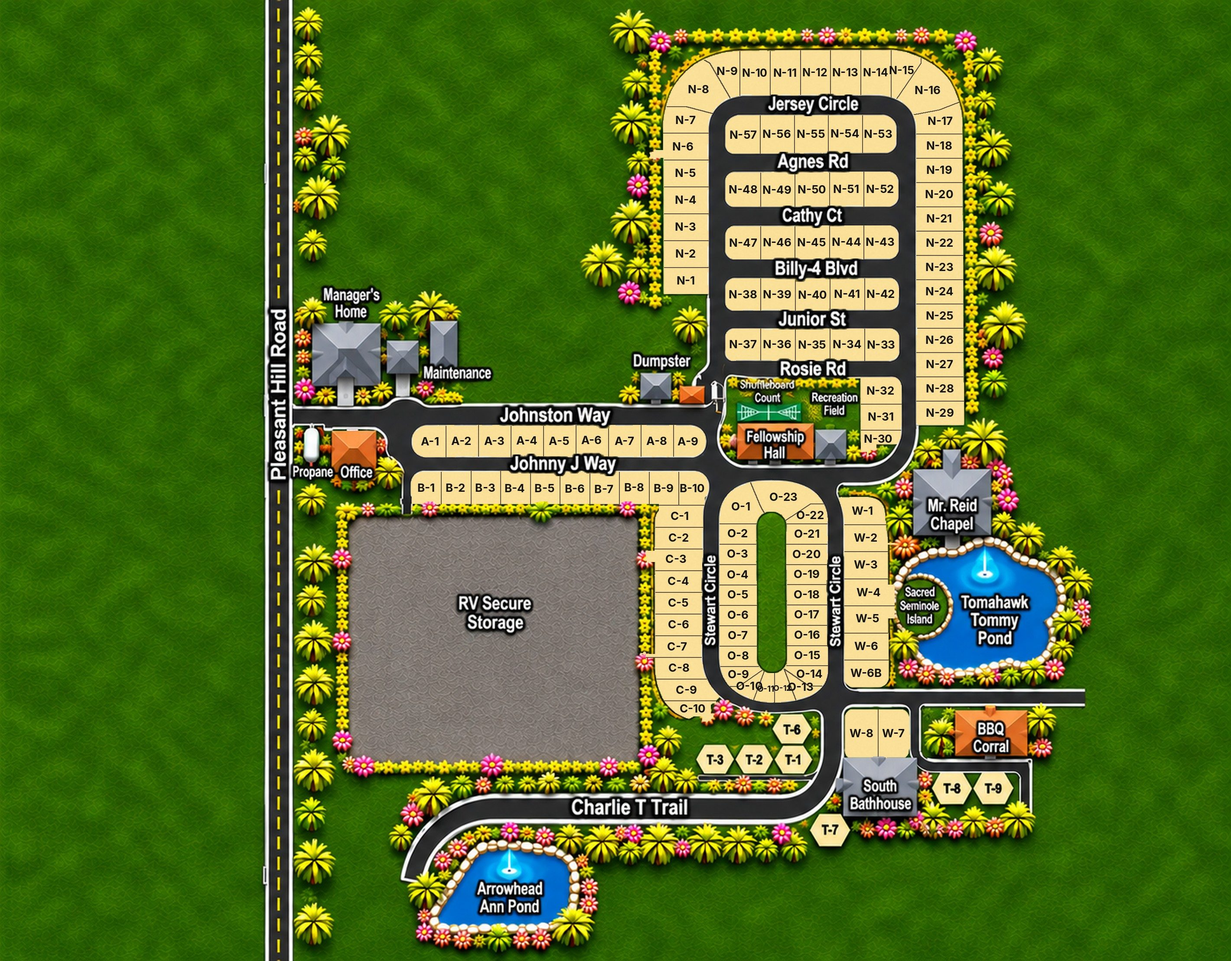
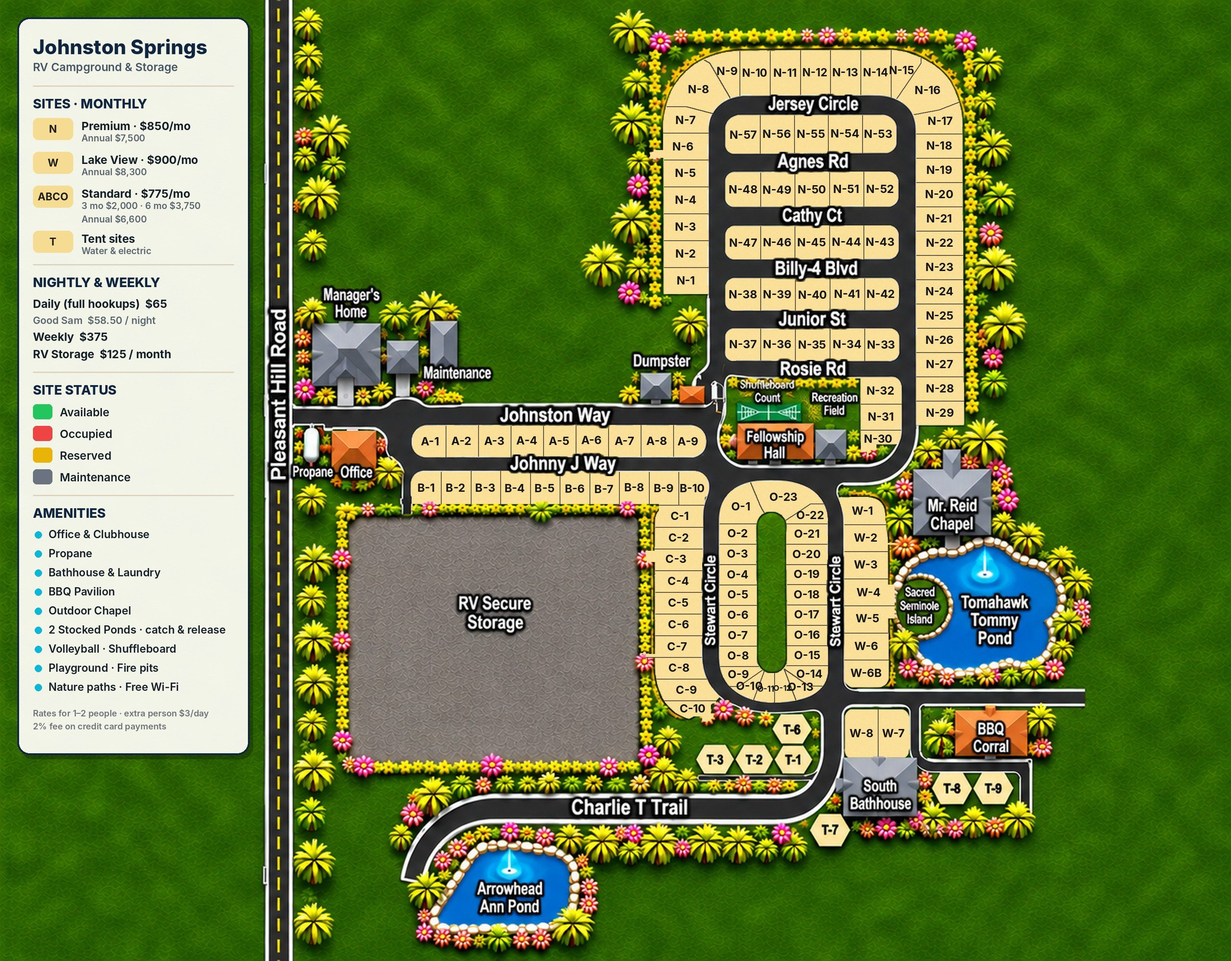
Johnston live map: legend + official rates (N $850, W $900, A/B/C/O $775, daily $65)
Claude-Session: https://claude.ai/code/session_01A6eEzDvAEVtPyCDXYkKvE7

Changed region(s): [[0.0, 0.0, 0.2169, 0.8096]]

diff --git a/public/explore/live/johnston/index.html b/public/explore/live/johnston/index.html
@@ -162,8 +162,9 @@ function load(){let d=null,lab=null;
 const kind=i=>"rv";
 // Nov 22 (per Mely — Johnston Springs): N = Super sites (33 ft+), A/B/C/O/W = Standard (under 32 ft), T = tent / water-electric (from the park's own map). Rates are examples.
 const sec=i=>String(NUM[i]||"").charAt(0);
-const typeOf=i=>{const es=L=="es",c=sec(i);return c=="N"?(es?"Super site (33 pies o más)":"Super site (33 ft or longer)"):c=="T"?(es?"Tienda · agua y luz":"Tent · water & electric"):(es?"Sitio estándar (menos de 32 pies)":"Standard site (under 32 ft)")};
-const rateOf=i=>{const c=sec(i);return c=="N"?"$700":c=="T"?"—":"$600"};
+// Nov 22 (per Mely): official Johnston Springs rates from johnstonsprings.com
+const typeOf=i=>{const es=L=="es",c=sec(i);return c=="N"?(es?"Premium (33 pies o más)":"Premium site (33 ft or longer)"):c=="W"?(es?"Vista al lago":"Lake View site"):c=="T"?(es?"Tienda · agua y luz":"Tent · water & electric"):(es?"Sitio estándar":"Standard site")};
+const rateOf=i=>{const c=sec(i);return c=="N"?"$850":c=="W"?"$900":c=="T"?(L=="es"?"Llame":"Call"):"$775"};
 // Nov 20 (per Mely): lot details — amps, size, hookups — so every lot looks complete (examples until the park sends its real data)
 // Nov 20 (per Mely): "Pay" works in the demo — a MelyOS secure-checkout preview (test card only, nothing is charged)
 function payDemo(i,n,tot){const es=L=="es",ov=document.createElement("div");ov.id="payov";
@@ -191,7 +192,7 @@ function maintUntil(i){return new Date(+today+((+NUM[i]||i)%5+2)*DAY)}
 const LONG=15;
 // A Stripe TEST-mode Payment Link (no real charge; card 4242 4242 4242 4242) — opens from "Pay" when set
 const DEMO_PAY_URL="";
-function nightly(i){const c=sec(i);return c=="N"?55:c=="T"?30:45}
+function nightly(i){return 65}
 function checkout(i){const es=L=="es",n=Math.round((dep-arr)/DAY),box=document.getElementById("bkm"),sh=document.getElementById("sheet");
  const fmt=d=>d.toLocaleDateString(es?"es-US":"en-US",{month:"short",day:"numeric"});
  if(n>LONG){box.innerHTML=`<div class="co"><b>${es?"Aplicación":"Application"} · ${t9(es,"Lote","Lot")} ${NUM[i]}</b><div>${fmt(arr)} → ${fmt(dep)} · ${n} ${es?"noches":"nights"}</div><div class="cn2">${es?"Demo: en su mapa real esto abre la aplicación del parque con las fechas y el lote ya puestos. Al aprobarla, el huésped paga el depósito en línea.":"Demo: on your live map this opens the park's application with the dates and lot filled in. Once approved, the guest pays the deposit online."}</div></div>`;}

diff --git a/public/explore/live/johnston/wide.html b/public/explore/live/johnston/wide.html
@@ -162,8 +162,9 @@ function load(){let d=null,lab=null;
 const kind=i=>"rv";
 // Nov 22 (per Mely — Johnston Springs): N = Super sites (33 ft+), A/B/C/O/W = Standard (under 32 ft), T = tent / water-electric (from the park's own map). Rates are examples.
 const sec=i=>String(NUM[i]||"").charAt(0);
-const typeOf=i=>{const es=L=="es",c=sec(i);return c=="N"?(es?"Super site (33 pies o más)":"Super site (33 ft or longer)"):c=="T"?(es?"Tienda · agua y luz":"Tent · water & electric"):(es?"Sitio estándar (menos de 32 pies)":"Standard site (under 32 ft)")};
-const rateOf=i=>{const c=sec(i);return c=="N"?"$700":c=="T"?"—":"$600"};
+// Nov 22 (per Mely): official Johnston Springs rates from johnstonsprings.com
+const typeOf=i=>{const es=L=="es",c=sec(i);return c=="N"?(es?"Premium (33 pies o más)":"Premium site (33 ft or longer)"):c=="W"?(es?"Vista al lago":"Lake View site"):c=="T"?(es?"Tienda · agua y luz":"Tent · water & electric"):(es?"Sitio estándar":"Standard site")};
+const rateOf=i=>{const c=sec(i);return c=="N"?"$850":c=="W"?"$900":c=="T"?(L=="es"?"Llame":"Call"):"$775"};
 // Nov 20 (per Mely): lot details — amps, size, hookups — so every lot looks complete (examples until the park sends its real data)
 // Nov 20 (per Mely): "Pay" works in the demo — a MelyOS secure-checkout preview (test card only, nothing is charged)
 function payDemo(i,n,tot){const es=L=="es",ov=document.createElement("div");ov.id="payov";
@@ -191,7 +192,7 @@ function maintUntil(i){return new Date(+today+((+NUM[i]||i)%5+2)*DAY)}
 const LONG=15;
 // A Stripe TEST-mode Payment Link (no real charge; card 4242 4242 4242 4242) — opens from "Pay" when set
 const DEMO_PAY_URL="";
-function nightly(i){const c=sec(i);return c=="N"?55:c=="T"?30:45}
+function nightly(i){return 65}
 function checkout(i){const es=L=="es",n=Math.round((dep-arr)/DAY),box=document.getElementById("bkm"),sh=document.getElementById("sheet");
  const fmt=d=>d.toLocaleDateString(es?"es-US":"en-US",{month:"short",day:"numeric"});
  if(n>LONG){box.innerHTML=`<div class="co"><b>${es?"Aplicación":"Application"} · ${t9(es,"Lote","Lot")} ${NUM[i]}</b><div>${fmt(arr)} → ${fmt(dep)} · ${n} ${es?"noches":"nights"}</div><div class="cn2">${es?"Demo: en su mapa real esto abre la aplicación del parque con las fechas y el lote ya puestos. Al aprobarla, el huésped paga el depósito en línea.":"Demo: on your live map this opens the park's application with the dates and lot filled in. Once approved, the guest pays the deposit online."}</div></div>`;}
